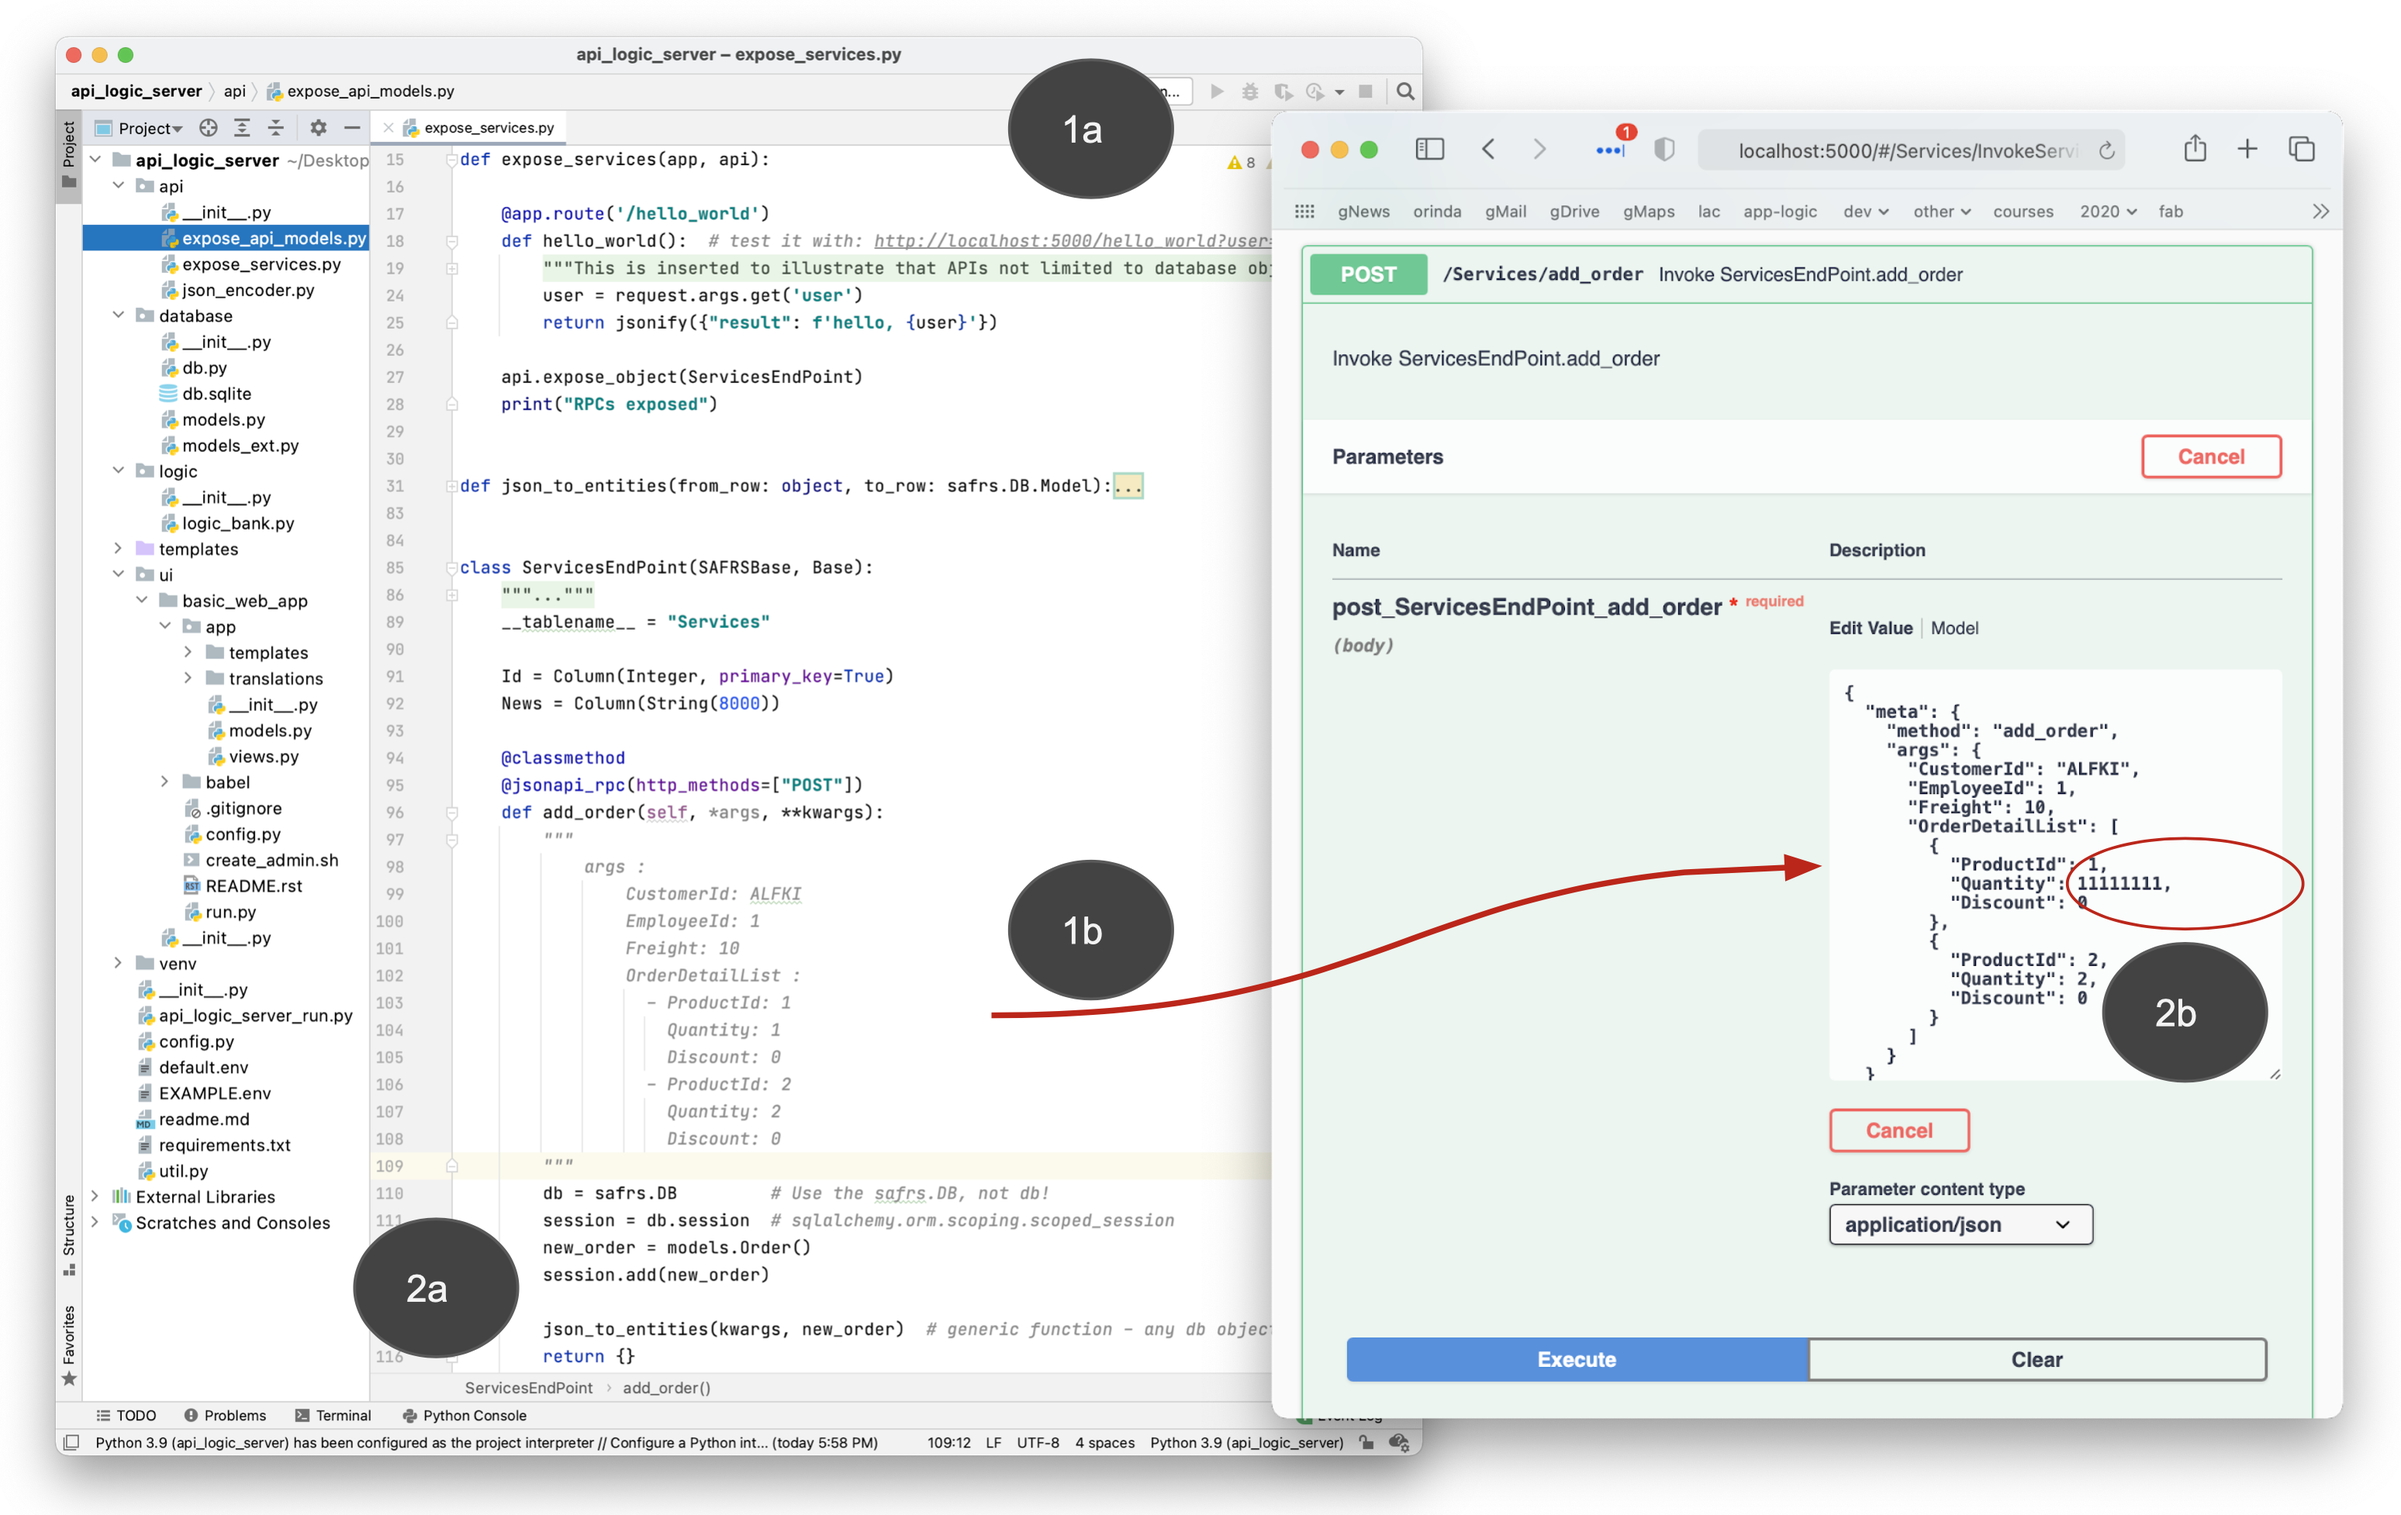
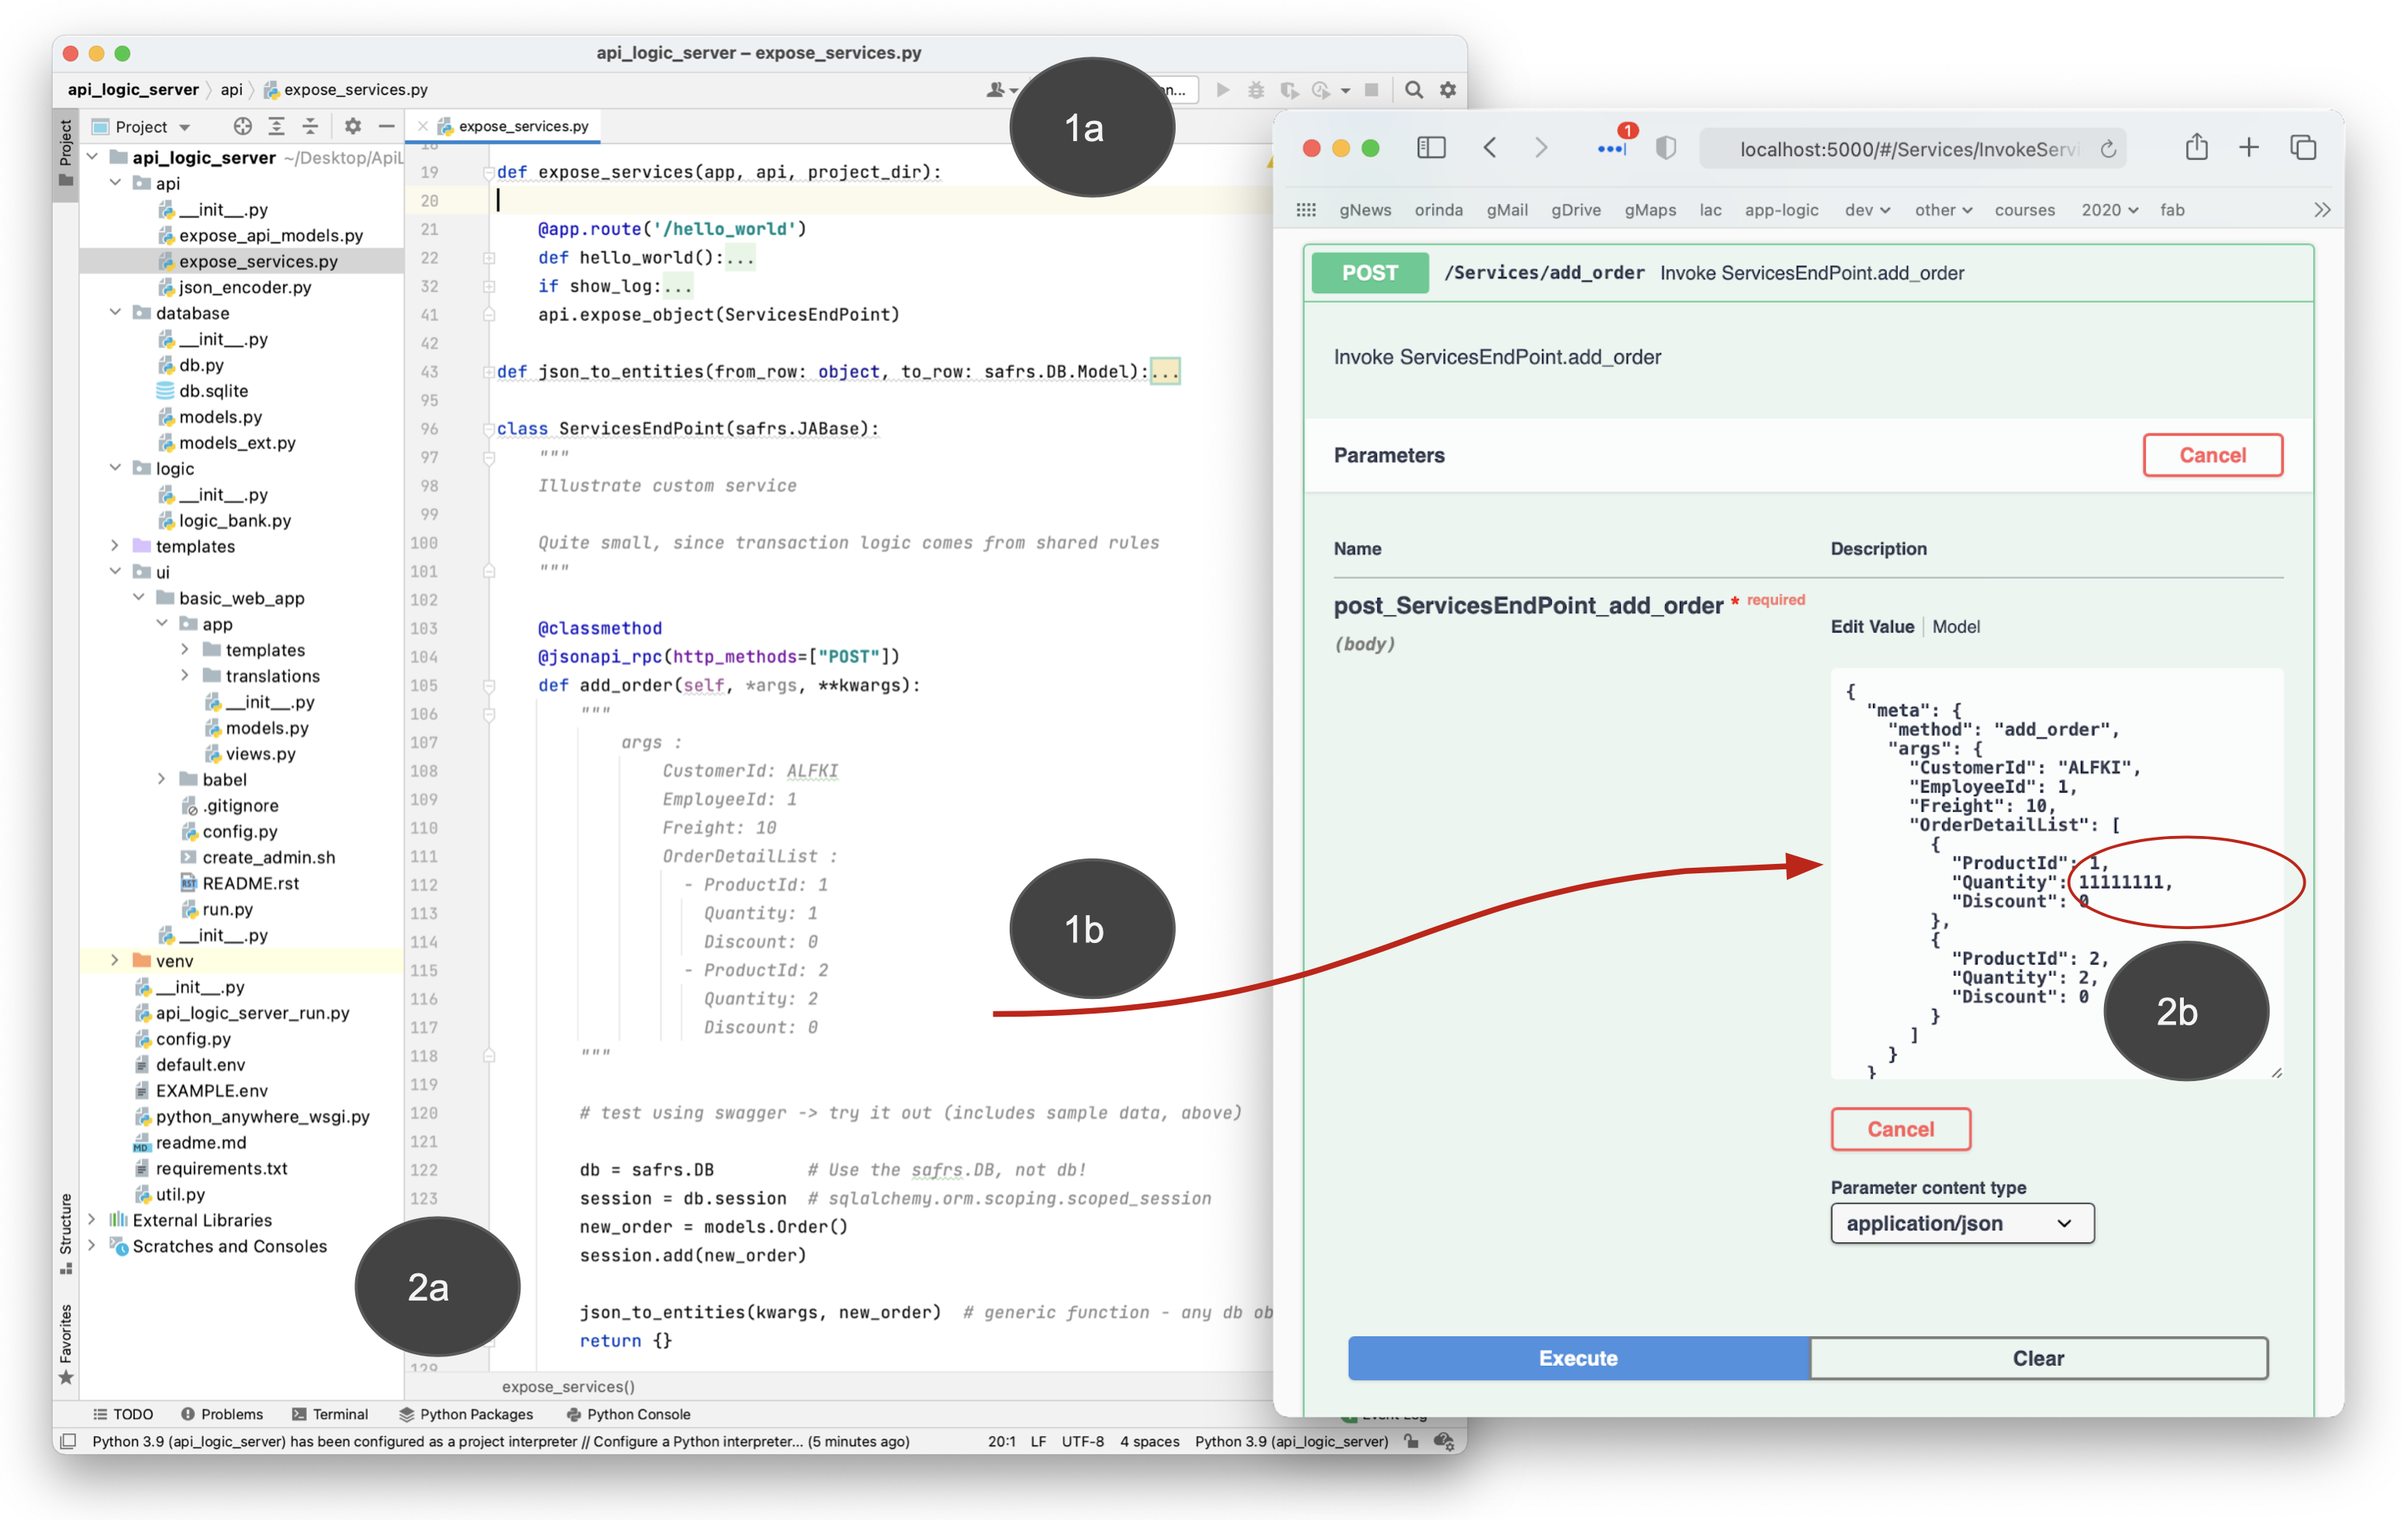
02.01.00: Improved Services, option --extended_builder (e.g., restify Table Value Functions)

diff --git a/api_logic_server_cli/cli.py b/api_logic_server_cli/cli.py
@@ -34,7 +34,7 @@ from sqlalchemy import MetaData
 import inspect
 import importlib
 import click
-__version__ = "02.00.19"
+__version__ = "02.01.00"
 default_db = "<default -- nw.sqlite>"
 
 #  MetaData = NewType('MetaData', object)
@@ -1212,7 +1212,7 @@ def version(ctx):
     click.echo(
         click.style(
             f'Recent Changes:\n'
-            "\t04/23/2021 - 02.00.19: Improved Services, option --extended_builder (e.g., restify Table Value Functions)\n"
+            "\t04/26/2021 - 02.01.00: Improved Services, option --extended_builder (e.g., restify Table Value Functions)\n"
             "\t04/23/2021 - 02.00.15: bug fix - SQLAlchemy version, server port\n"
             "\t04/21/2021 - 02.00.14: pythonanywhere - port option, wsgi creation\n"
             "\t04/13/2021 - 02.00.10: Improved model error recovery; fix sql/server char type (issues # 13)\n"

diff --git a/README.md b/README.md
@@ -253,6 +253,8 @@ These technologies are automatically created when you use ApiLogicServer:
 * [Instant Web Apps](https://dzone.com/articles/instant-db-web-apps) 
 
 ### Change Log
+04/26/2021 - 02.01.00: Improved Services, option --extended_builder (e.g., restify Table Value Functions)
+
 04/23/2021 - 02.00.15: bug fix - SQLAlchemy version, server port
 
 04/20/2021 - 02.00.12: pythonanywhere - port option, wsgi creation
